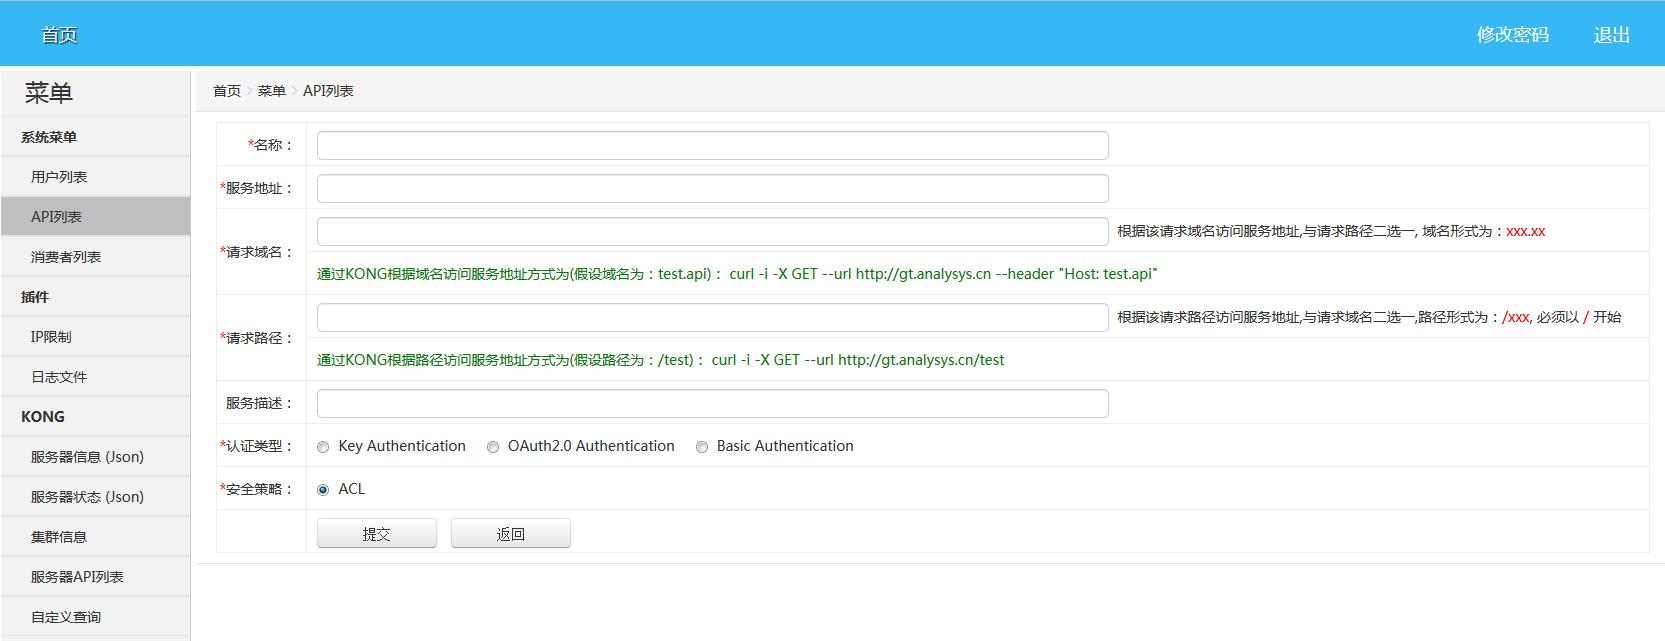
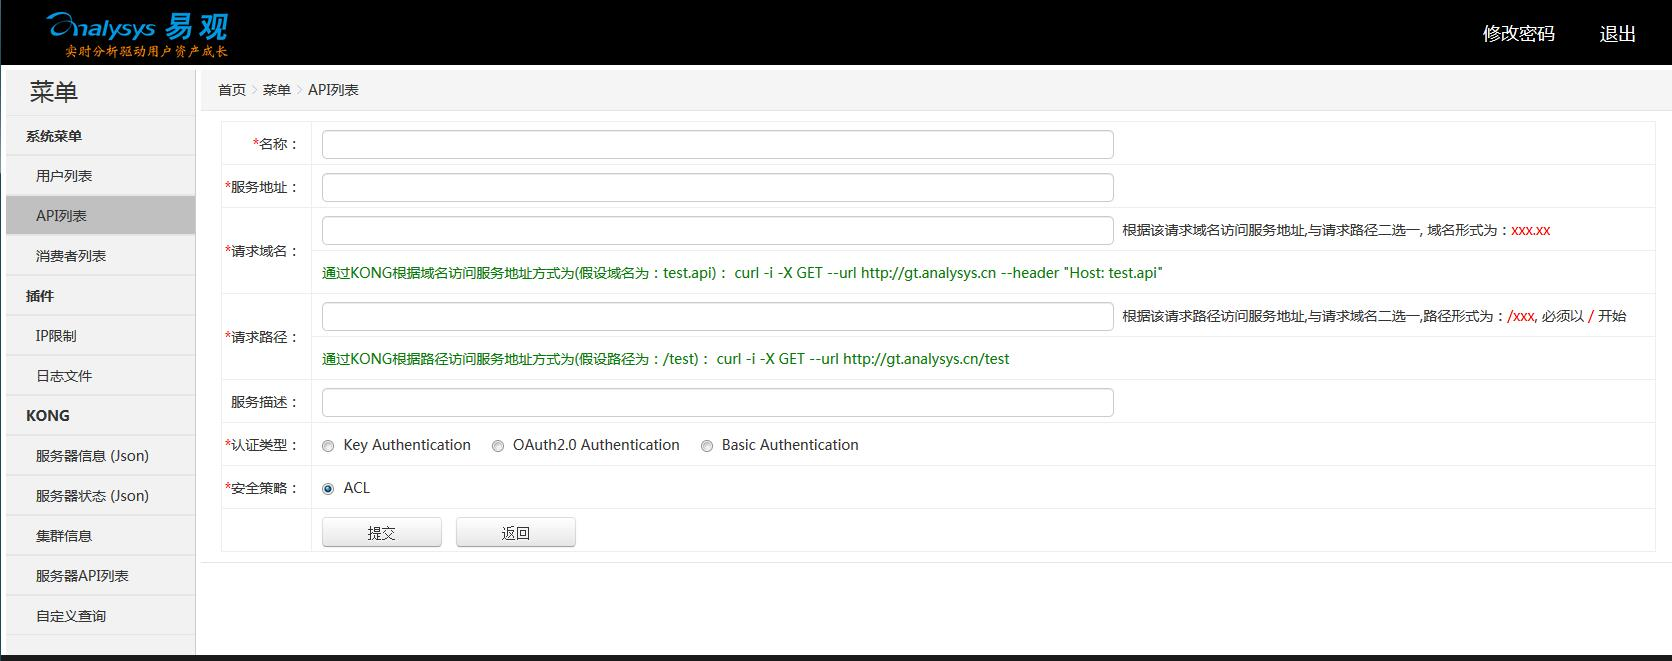
update

diff --git a/src/main/webapp/css/common.css b/src/main/webapp/css/common.css
@@ -60,7 +60,7 @@ article,aside,details,figcaption,figure,footer,header,hgroup,menu,nav,section{di
 .icon-font { font-family:'icomoon'; speak:none; font-weight:400; font-style:normal; font-variant:normal; text-transform:none; line-height:1; -webkit-font-smoothing:antialiased; }
 .require-red{color:#f60;font-family:serif;margin-right:3px;}
 /* common */
-.topbar-wrap{height:65px;line-height:65px;background:#37b7f5;}
+.topbar-wrap{height:65px;line-height:65px;background:#000000;}
 .topbar-logo-wrap{float:left;}
 .topbar-inner{font-size:18px;padding:0 20px;}
 .topbar-logo{float:left;width:150px;text-align:center;}
